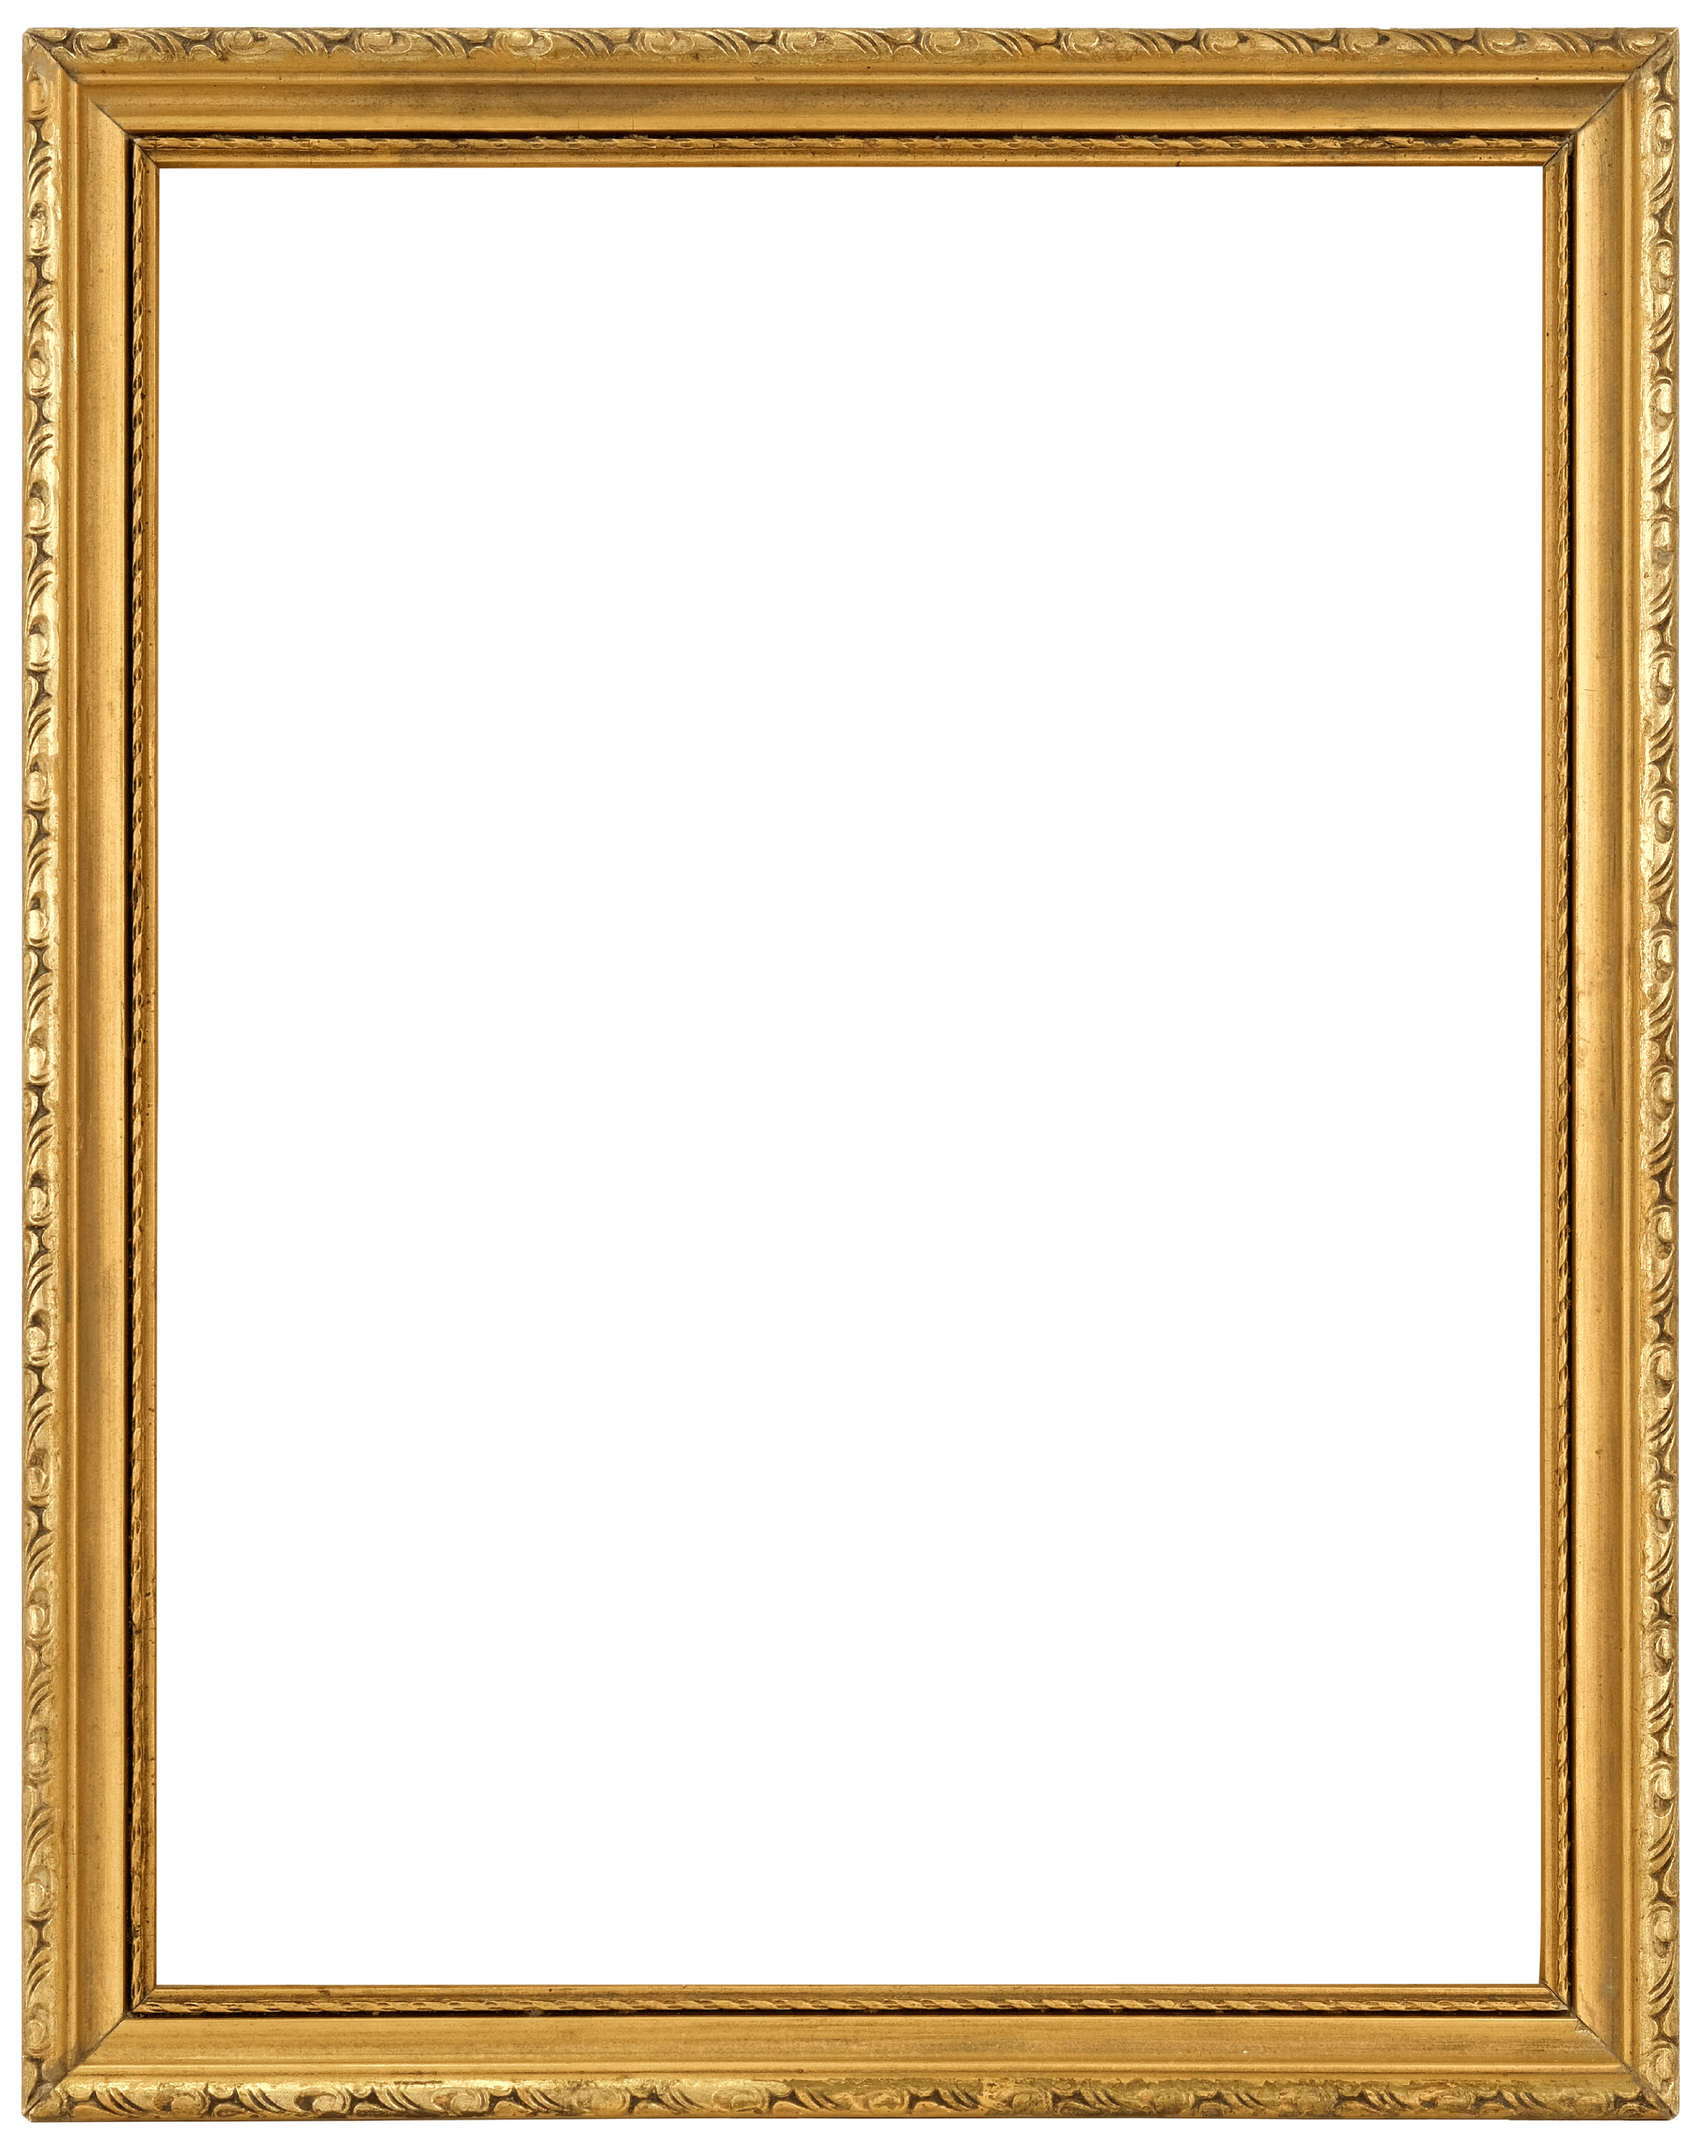
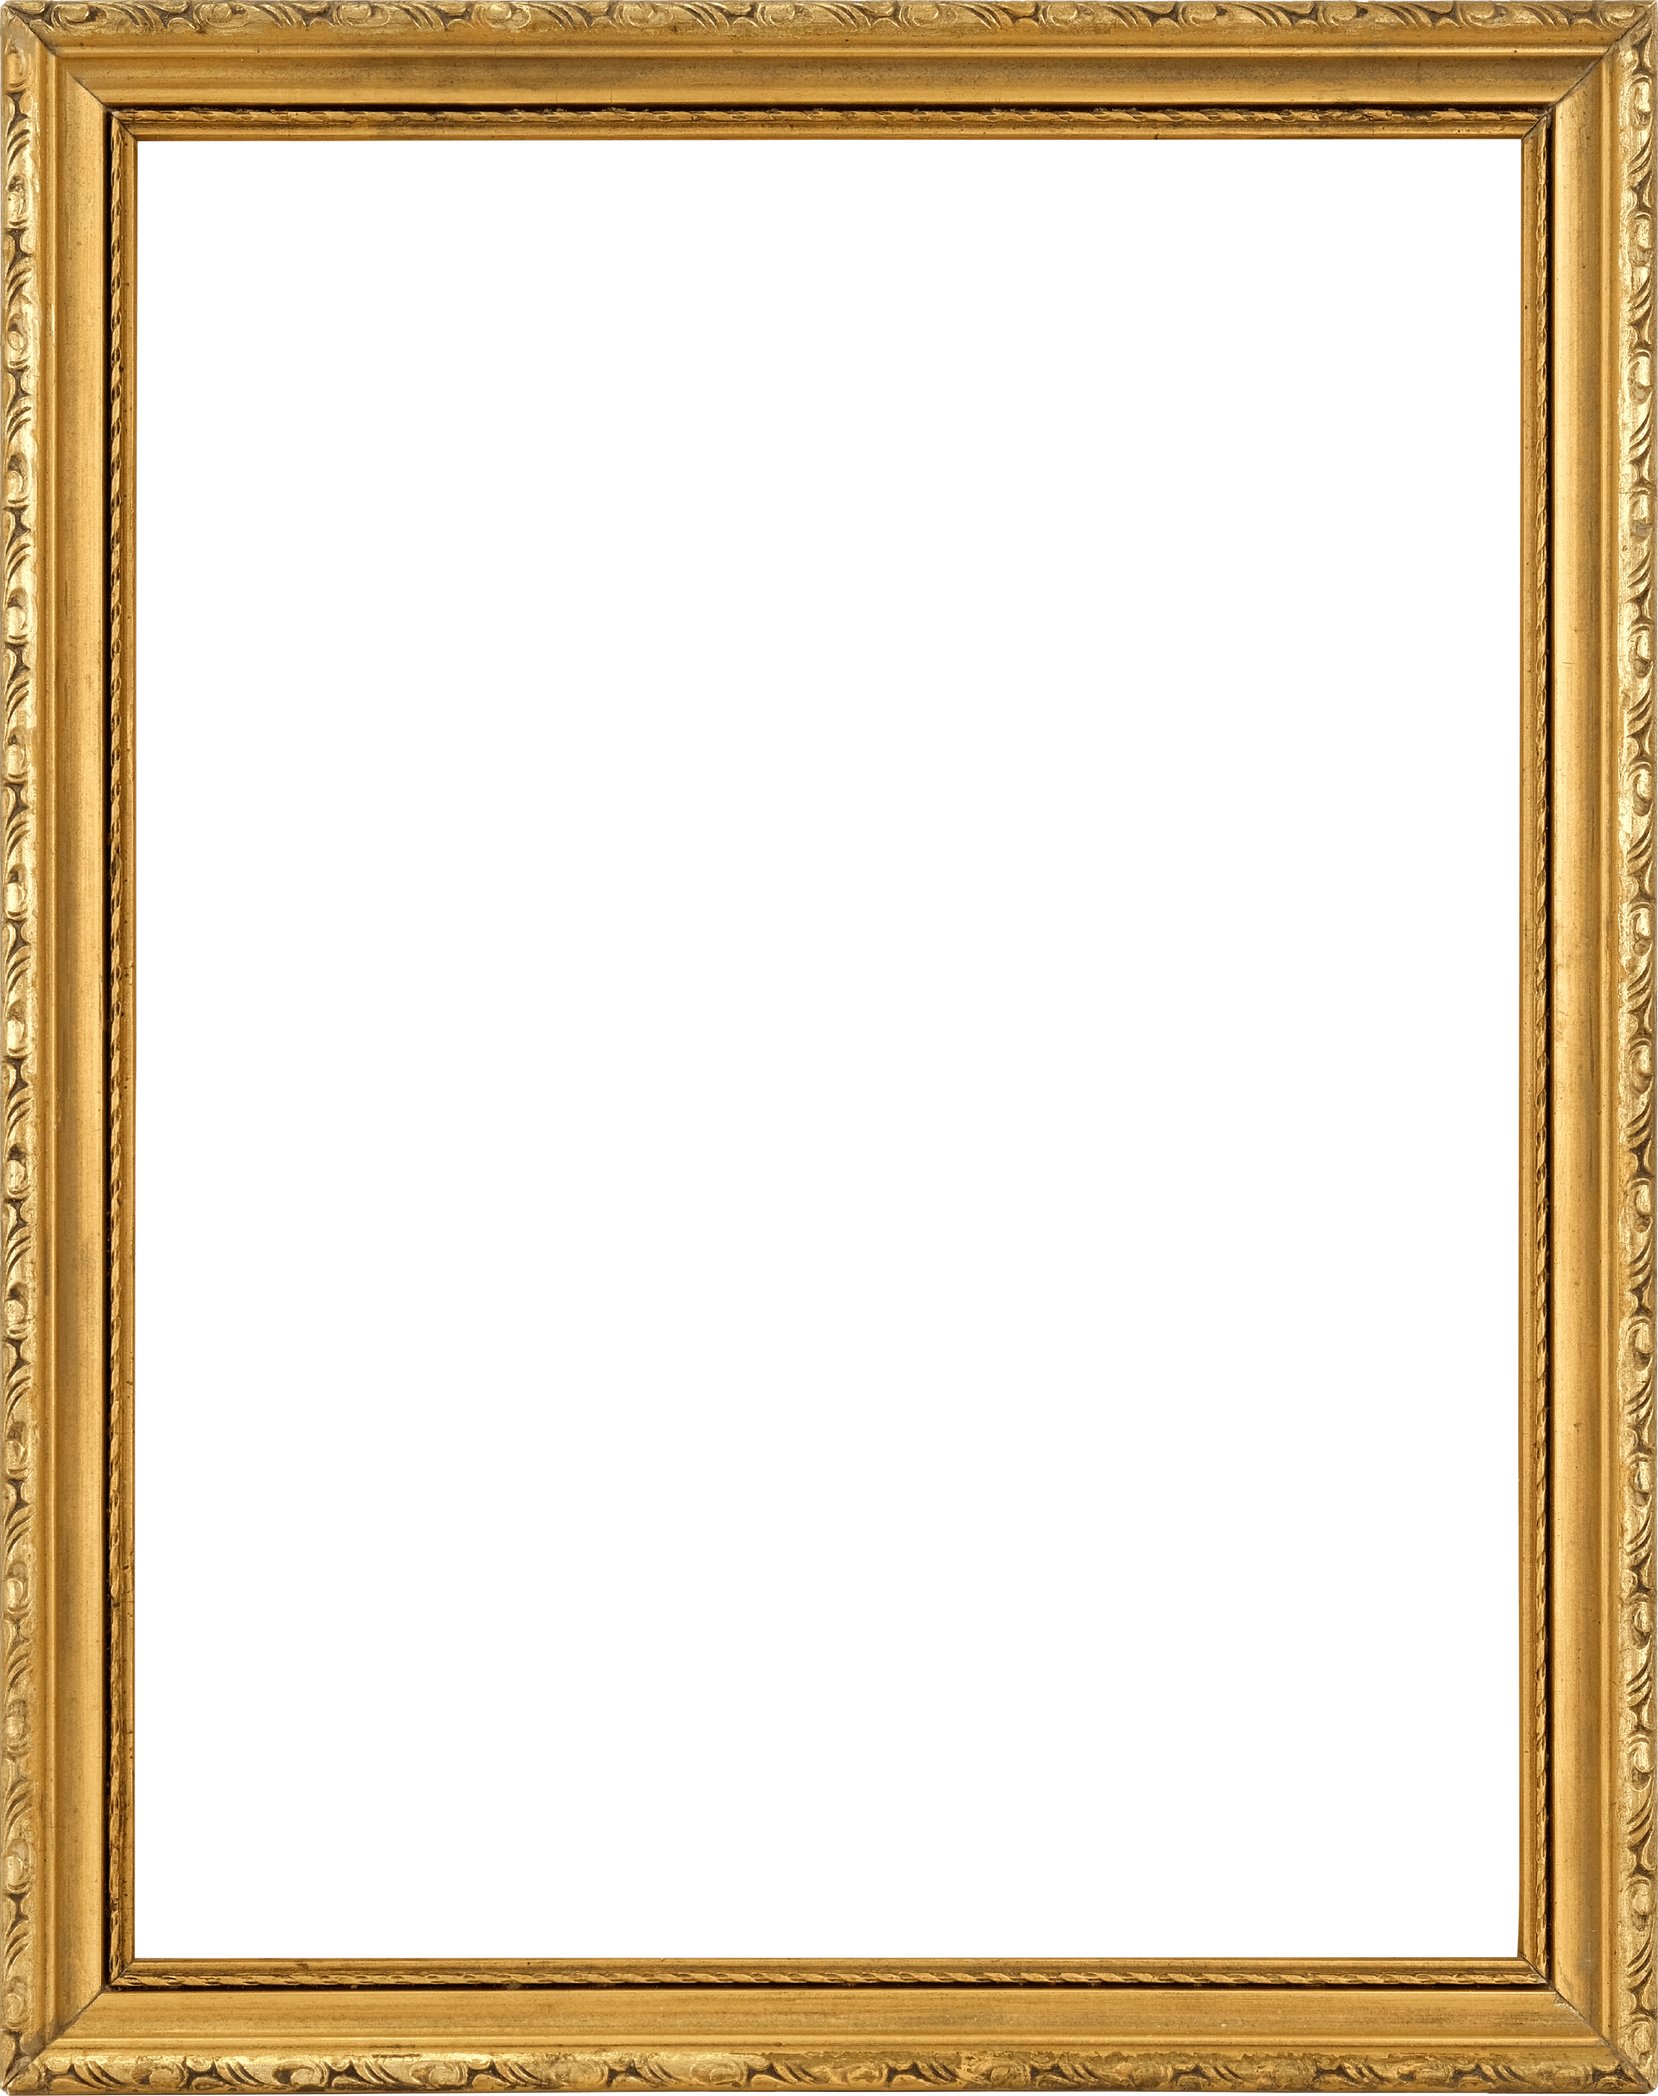
added frames... still very early stsages plan to use columns as placements.

Changed region(s): [[0.0, 0.0, 1.0, 1.0]]

diff --git a/app/components/frames/FramedProduct.tsx b/app/components/frames/FramedProduct.tsx
@@ -1,0 +1,158 @@
+import FrameOne from '~/assets/frames/frame1.png';
+import FrameTwo from '~/assets/frames/frame2.png';
+import FrameThree from '~/assets/frames/frame3.png';
+import type {FrameProduct} from '~/lib/products';
+import {Image, Money} from '@shopify/hydrogen';
+import {Link} from '@remix-run/react';
+
+// const frameSrcObject = {
+//   frame1: FrameOne,
+//   frame2: FrameTwo,
+//   frame3: FrameThree,
+// } as const;
+
+export const frameSrcObject = {
+    frame1: { src: FrameOne, width: '600px', height: '800px' },
+    frame2: { src: FrameTwo, width: '400px', height: '550px' },
+    frame3: { src: FrameThree, width: '300px', height: '400px' },
+    // Add more frames here...
+};
+
+// interface FramedProductProps {
+//   product: FrameProduct;
+//   frameType: keyof typeof frameSrcObject;
+// }
+
+
+
+interface FramedProductProps {
+    product?: FrameProduct; // Optional for empty frames
+    frameId: keyof typeof frameSrcObject; // ID of the frame to use
+    onClick?: () => void; // Optional click handler for empty frames
+}
+
+
+// export const FramedProduct = ({product, frameType}: FramedProductProps) => {
+//   return (
+//     <div
+//       style={{
+//         width: '500px', // Frame width
+//         height: '650px', // Frame height for proportions
+//         position: 'relative', // Enable layering
+//         display: 'flex',
+//         justifyContent: 'center',
+//         alignItems: 'center',
+//         overflow: 'hidden', // Clip anything that exceeds the container
+//         // boxShadow: '0px 50px 20px transparent', // Subtle shadow for depth
+//         boxShadow: `0 0 0.07em rgba(255,255,255,0.1),
+//                 0 0.2em 0.2em -0.15em rgba(0,0,0,0.5),
+//                 0 0.25em 0.75em -0.05em rgba(0,0,0,0.5),
+//                 inset 0 0 0.7em rgba(0,0,0,0.3),
+//                 inset 0 0.05em 0.1em rgba(255,255,255,0.15)`,
+//       }}
+//     >
+//       {/* Frame PNG */}
+//       <img
+//         src={frameSrcObject[frameType]}
+//         style={{
+//           position: 'absolute', // Overlay the frame on top
+//           top: 0,
+//             border: 'transparent',
+//           left: 0,
+//           width: '100%',
+//           height: '100%',
+//           objectFit: 'cover', // Ensure frame scales properly
+//           zIndex: 2, // Frame is on top of the product
+//           pointerEvents: 'none', // Prevent frame from interfering with clicks
+//         }}
+//         alt="Frame"
+//       />
+//       {/* Product Image */}
+//       <Link
+//         key={product.id}
+//         className="recommended-product"
+//         to={`/products/${product.handle}`}
+//         style={{
+//           position: 'relative', // Keep product above the frame
+//           display: 'block',
+//           width: '100%', // Slightly smaller to ensure it stays inside the frame
+//           height: '100%', // Adjust height proportionally
+//           zIndex: 1, // Layer product above frame
+//           overflow: 'hidden', // Prevent any child element overflow
+//         }}
+//       >
+//         <Image
+//           data={product.images.nodes[0]}
+//           style={{
+//             width: '100%',
+//             height: '100%',
+//             objectFit: 'contain', // Scale image within container
+//             objectPosition: 'center', // Center the product image
+//             filter: 'drop-shadow(0px 6px 8px rgba(0, 0, 0, 0.15))', // Subtle shadow for product depth
+//           }}
+//         />
+//       </Link>
+//     </div>
+//   );
+// };
+export const FramedProduct = ({ product, frameId, onClick }: FramedProductProps) => {
+    const frame = frameSrcObject[frameId]; // Retrieve frame config by ID
+
+    return (
+        <div
+            onClick={onClick}
+            style={{
+                width: frame.width,
+                height: frame.height,
+                position: 'relative',
+                display: 'flex',
+                justifyContent: 'center',
+                alignItems: 'center',
+                overflow: 'hidden',
+                cursor: onClick ? 'pointer' : 'default',
+                backgroundColor: product ? 'transparent' : '#f8f4ec', // Bone white for empty frames
+            }}
+        >
+            {/* Frame Image */}
+            <img
+                src={frame.src}
+                style={{
+                    position: 'absolute',
+                    top: 0,
+                    left: 0,
+                    width: '100%',
+                    height: '100%',
+                    objectFit: 'cover',
+                    zIndex: 2,
+                    pointerEvents: 'none',
+                }}
+                alt={`Frame ${frameId}`}
+            />
+            {/* Product Image (if provided) */}
+            {product && (
+                <Link
+                    to={`/products/${product.handle}`}
+                    style={{
+                        position: 'relative',
+                        display: 'block',
+                        width: '90%',
+                        height: '90%',
+                        zIndex: 1,
+                        overflow: 'hidden',
+                    }}
+                >
+                    <Image
+                        data={product.images.nodes[0]}
+                        style={{
+                            width: '100%',
+                            height: '100%',
+                            objectFit: 'contain',
+                            objectPosition: 'center',
+                            filter: 'drop-shadow(0px 6px 8px rgba(0, 0, 0, 0.15))',
+                        }}
+                    />
+                </Link>
+            )}
+        </div>
+    );
+};

diff --git a/app/routes/_index.tsx b/app/routes/_index.tsx
@@ -9,7 +9,7 @@ import type {
   FrameProductsQuery,
 } from 'storefrontapi.generated';
 import {Box} from '@radix-ui/themes';
-import FrameOne from '../assets/frames/frame1.png';
+import {FramedProduct, frameSrcObject} from '~/components/frames/FramedProduct';
 
 export const meta: MetaFunction = () => {
   return [{title: 'jaxxYz | homepage'}];
@@ -59,20 +59,76 @@ function loadDeferredData({context}: LoaderFunctionArgs) {
   };
 }
 
-export const FramedProduct = () => {
+const FramedProductsCanvas = ({ products }: { products: Promise<any> }) => {
+  const layout = [
+    { frameId: 'frame1', productIndex: 0 }, // Product frame
+    { frameId: 'frame2', productIndex: 1 }, // Product frame
+    { frameId: 'frame3', productIndex: undefined }, // Empty frame
+    // Add more frame layout configurations as needed
+  ];
+
   return (
-    <div
-      style={{
-        backgroundImage: `url(${FrameOne})`,
-        backgroundRepeat: 'no-repeat',
-        backgroundSize: 'contain', // Ensure the image covers the container
-        backgroundPosition: 'center', // Center the image
-        width: '500px', // Set explicit dimensions
-        height: '500px',
-      }}
-    ></div>
+      <div
+          style={{
+            display: 'grid',
+            gridTemplateColumns: 'repeat(4, 1fr)',
+            gap: '16px', // Space between frames
+            padding: '16px',
+            width: '100%',
+          }}
+      >
+        <Suspense fallback={<div>Loading...</div>}>
+          <Await resolve={products}>
+            {(resolvedProducts) => {
+              const productNodes = resolvedProducts?.products?.nodes || [];
+              return layout.map((item, index) => (
+                  <FramedProduct
+                      key={index}
+                      frameId={item.frameId as keyof typeof frameSrcObject}
+                      product={item.productIndex !== undefined ? productNodes[item.productIndex] : undefined}
+                      onClick={
+                        item.productIndex === undefined // Empty frame
+                            ? () => (window.location.href = '/collections/all')
+                            : undefined
+                      }
+                  />
+              ));
+            }}
+          </Await>
+        </Suspense>
+      </div>
   );
 };
+
+// const FramedProductsCanvas = ({products}) => {
+//   return (
+//     <div style={{width: '100%', height: '90vh', border: '1px solid purple'}}>
+//       <Suspense fallback={<div>Loading...</div>}>
+//         <Await resolve={products}>
+//           {(resolvedProducts) => {
+//             console.log('Resolved Products:', resolvedProducts); // Log the structure
+//
+//             if (
+//               !resolvedProducts ||
+//               !resolvedProducts.products ||
+//               !resolvedProducts.products.nodes ||
+//               resolvedProducts.products.nodes.length === 0
+//             ) {
+//               return <div>No products available.</div>;
+//             }
+//
+//             return (
+//               <FramedProduct
+//                 product={resolvedProducts.products.nodes[0]}
+//                 frameType="frame1"
+//               />
+//             );
+//           }}
+//         </Await>
+//       </Suspense>
+//     </div>
+//   );
+// };
 
 export default function Homepage() {
   const data = useLoaderData<typeof loader>();
@@ -85,12 +141,14 @@ export default function Homepage() {
 
   return (
     <div className="home-content-container">
-      {/*<FeaturedCollection collection={data.featuredCollection} />*/}
-      <RecommendedProducts products={data.allProducts} />
-      <FramedProduct />
+
+      <FramedProductsCanvas products={data.allProducts} />
     </div>
   );
 }
+
+// {/*<FeaturedCollection collection={data.featuredCollection} />*/}
+// {/*<RecommendedProducts products={data.allProducts} />*/}
 
 function FeaturedCollection({
   collection,

diff --git a/app/lib/products.ts b/app/lib/products.ts
@@ -1,0 +1,28 @@
+export type FrameProduct = {
+  id: string;
+  title: string;
+  handle: string;
+  tags: string[];
+  priceRange: {
+    minVariantPrice: {
+      amount: string;
+      currencyCode: string;
+    };
+  };
+  images: {
+    nodes: Array<{
+      id: string;
+      url: string;
+      altText?: string | null; // altText may be optional or nullable
+      width: number;
+      height: number;
+    }>;
+  };
+};
+
+// Define the type for the query result
+export type FrameProductsQueryResult = {
+  products: {
+    nodes: FrameProduct[];
+  };
+};
